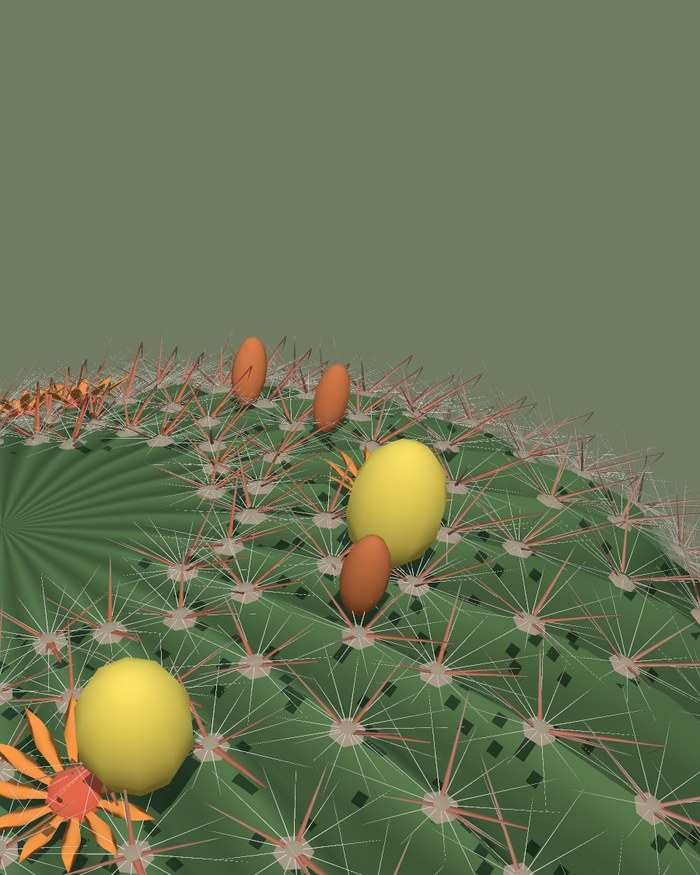
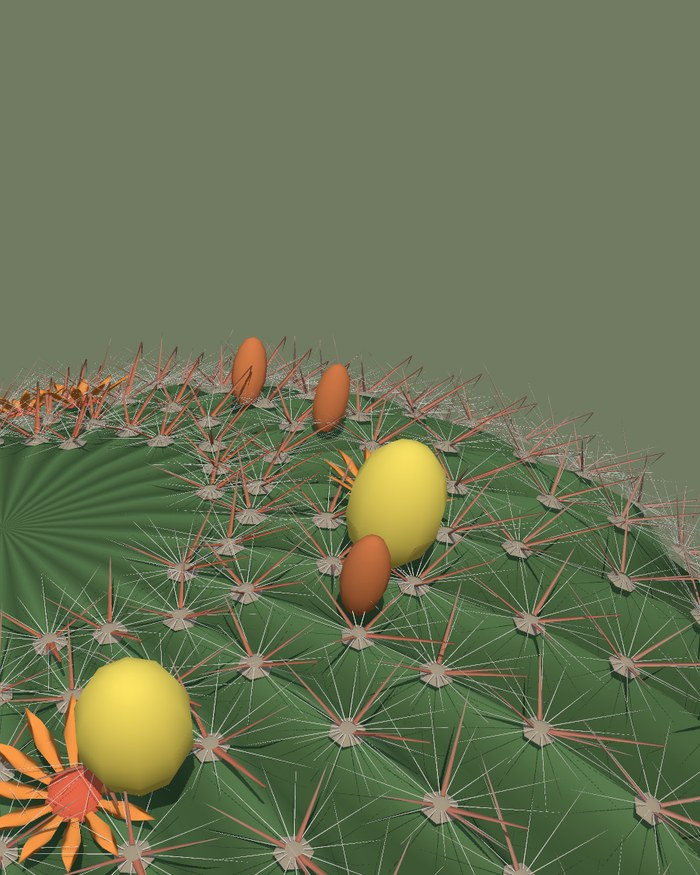
README: close-ups with the new shadows
The saguaro, barrel cactus and cholla close-ups are rendered again with
the fitted shadow map; the fireweed close-up goes until a meadow picture
replaces it.

Claude-Session: https://claude.ai/code/session_01NNKyBWuLUBf3HkiYyuKpqA

diff --git a/README.md b/README.md
@@ -18,15 +18,13 @@ it, and turns what grew into meshes, levels of detail and impostors. No
 3D models are stored or shipped: you grow them on your own machine, and the
 same species and seed give the same plant, bit for bit, on every machine.
 
-| | |
-| --- | --- |
-| ![A saguaro's ribs, each areole with its own solid spines](docs/images/saguaro-spines.jpg) | ![The crown of a fishhook barrel cactus: red-tipped hooked spines, yellow fruit and an orange flower](docs/images/barrel-cactus-crown.jpg) |
-| *Saguaro: every areole along every rib grows its own spines.* | *Fishhook barrel cactus: hooked central spines, flowers and fruit on the crown.* |
-| ![The joints of a teddy-bear cholla, dense with pale spines](docs/images/cholla-spines.jpg) | ![Fireweed's flower spikes: four-petalled magenta flowers opening up the stem below their buds](docs/images/fireweed-flowers.jpg) |
-| *Teddy-bear cholla: joints packed with pale spines.* | *Fireweed: flowers open up the spike, buds still closed above.* |
+| | | |
+| --- | --- | --- |
+| ![A saguaro's ribs, each areole with its own solid spines](docs/images/saguaro-spines.jpg) | ![The crown of a fishhook barrel cactus: red-tipped hooked spines, yellow fruit and an orange flower](docs/images/barrel-cactus-crown.jpg) | ![The joints of a teddy-bear cholla, dense with pale spines](docs/images/cholla-spines.jpg) |
+| *Saguaro: every areole along every rib grows its own spines, which shade the stem.* | *Fishhook barrel cactus: hooked central spines, flowers and fruit on the crown.* | *Teddy-bear cholla: joints packed with pale spines.* |
 
-*Rendered by `plantc render` from the built-in library, with every flower,
-fruit and spine drawn as its own mesh (`--parts on`).*
+*Close-ups rendered by `plantc render --focus` from the built-in library,
+with every flower, fruit and spine drawn as its own mesh (`--parts on`).*
 
 ## What it does
 
